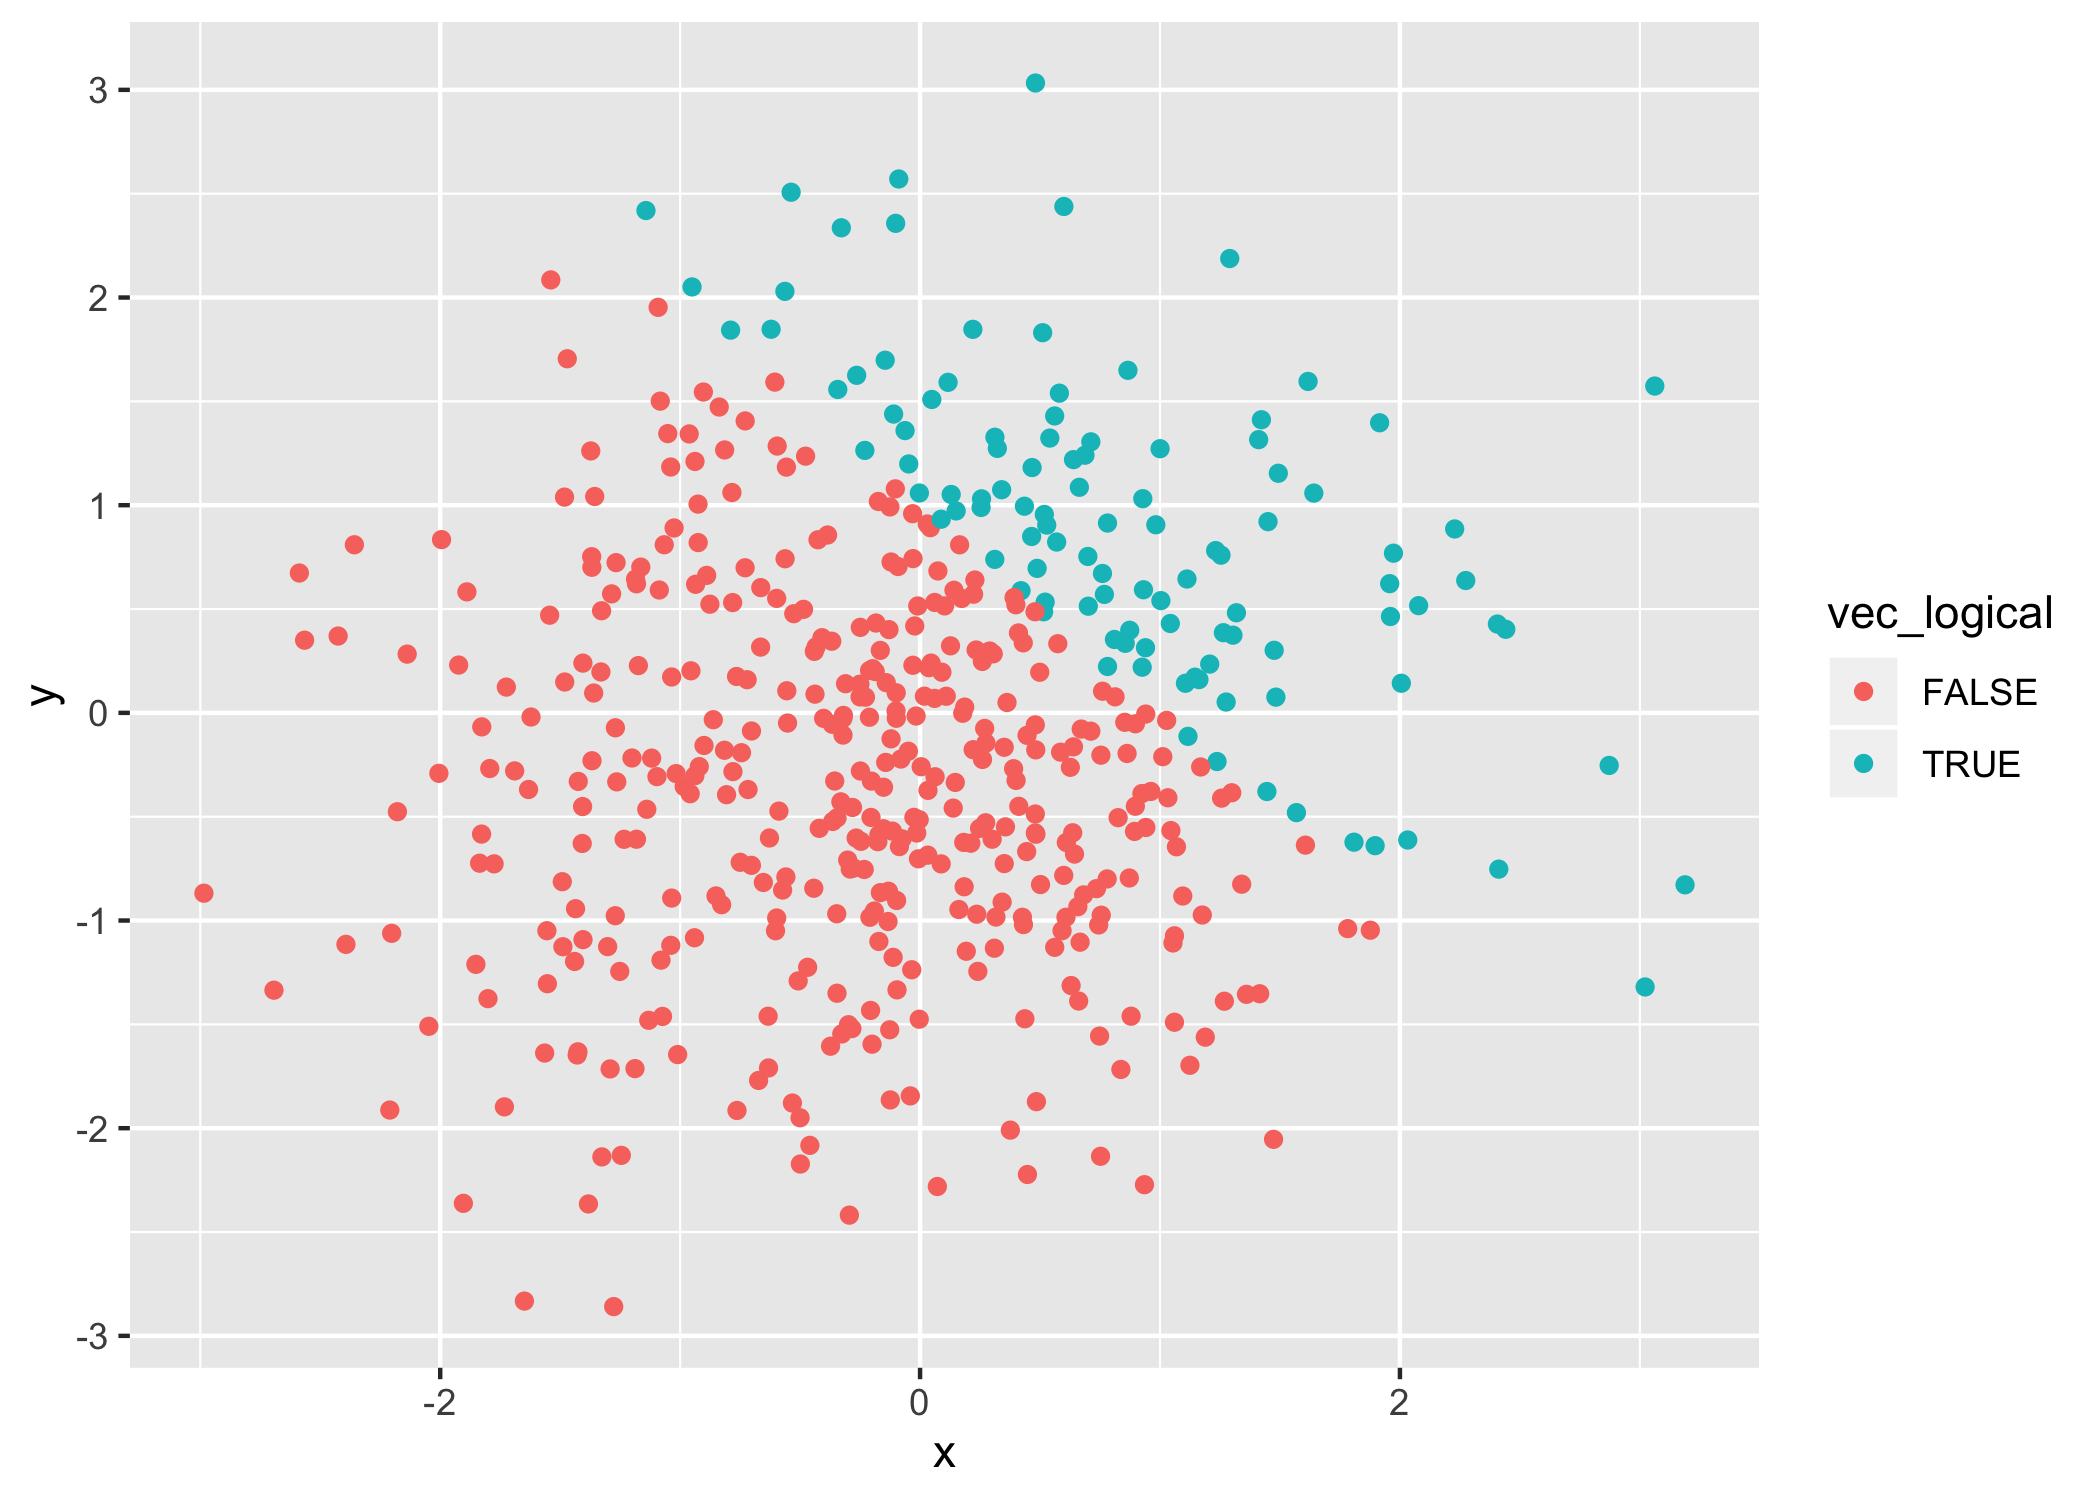
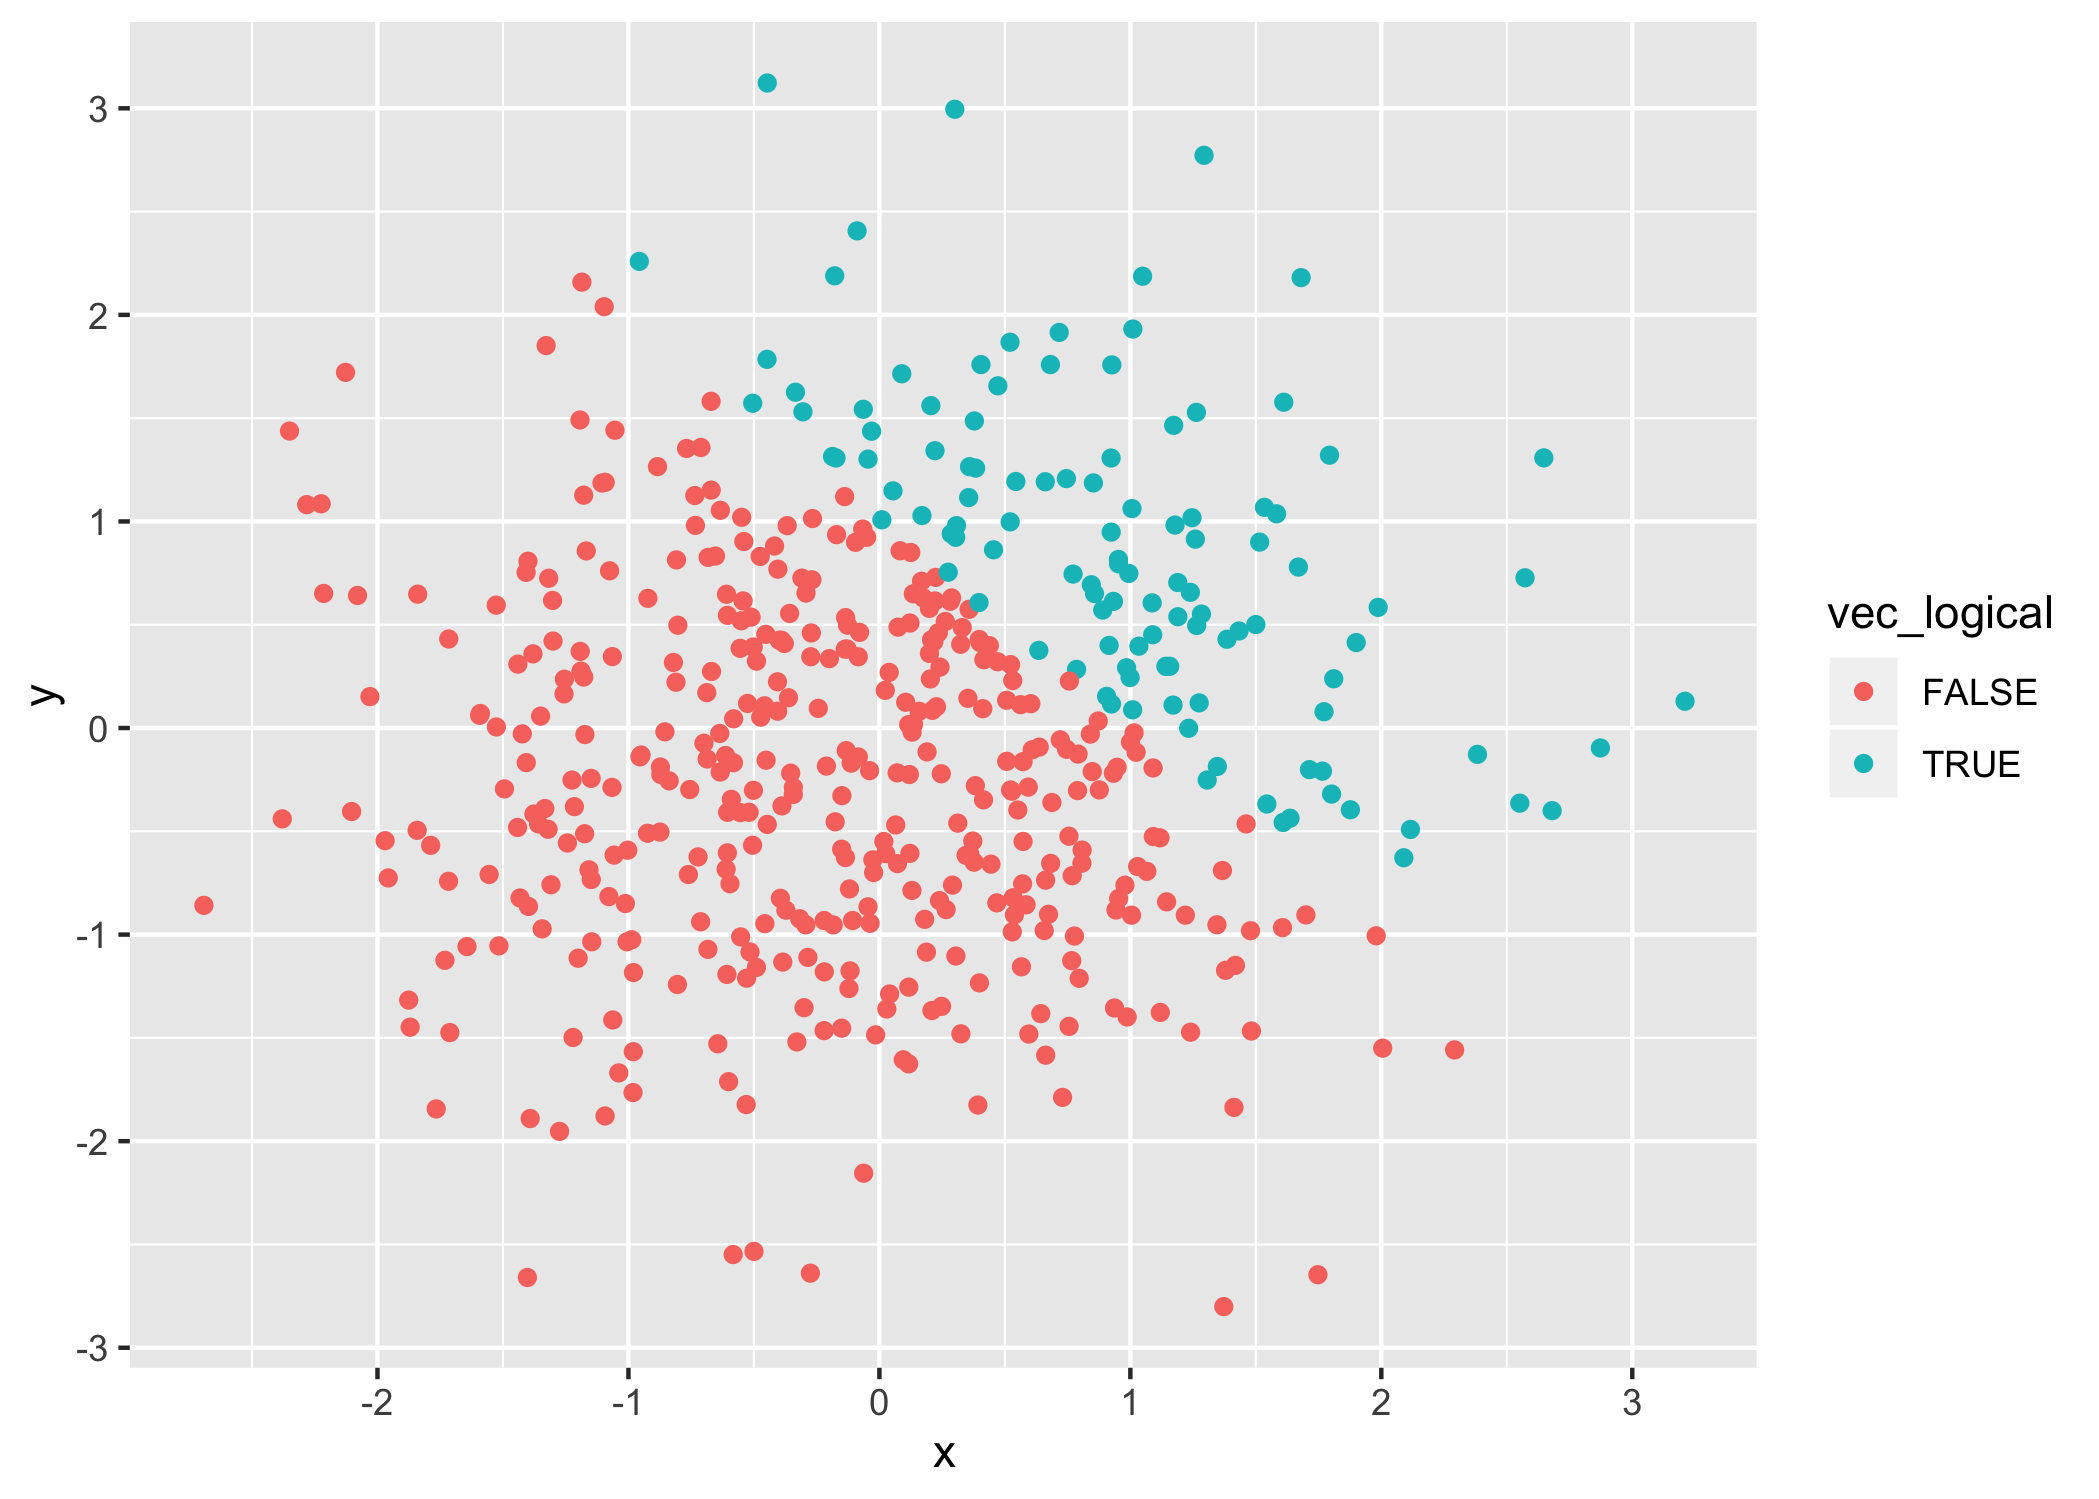
Add text description for problem 2.

diff --git a/p8105_hw1_xh2395.md b/p8105_hw1_xh2395.md
@@ -39,7 +39,7 @@ problem1_df = tibble(
 mean(pull(problem1_df, vec_numeric))
 ```
 
-    ## [1] 0.2372016
+    ## [1] 0.1755581
 
 ``` r
 mean(pull(problem1_df, vec_logical))
@@ -74,7 +74,7 @@ vec\_char and vec\_factor doesn’t work.
 as.numeric(pull(problem1_df, vec_logical))
 ```
 
-    ## [1] 0 1 1 0 1 0 1 1
+    ## [1] 0 0 1 1 1 1 0 1
 
 ``` r
 as.numeric(pull(problem1_df, vec_char))
@@ -101,8 +101,8 @@ multiply:**
 as.numeric(pull(problem1_df, vec_logical))*pull(problem1_df, vec_numeric)
 ```
 
-    ## [1] 0.00000000 0.69574679 0.95940113 0.00000000 0.44098534 0.00000000
-    ## [7] 0.05438621 0.64839411
+    ## [1] 0.0000000 0.0000000 1.2415849 0.5166485 1.1708866 0.0345899 0.0000000
+    ## [8] 0.9446244
 
 ``` r
 as.factor(pull(problem1_df, vec_logical))*pull(problem1_df, vec_numeric)
@@ -117,10 +117,12 @@ as.factor(pull(problem1_df, vec_logical))*pull(problem1_df, vec_numeric)
 as.numeric(as.factor(pull(problem1_df, vec_logical)))*pull(problem1_df, vec_numeric)
 ```
 
-    ## [1] -0.49640928  1.39149357  1.91880227 -0.32491947  0.88197067 -0.07997219
-    ## [7]  0.10877243  1.29678823
+    ## [1] -0.35908965 -1.78868250  2.48316986  1.03329695  2.34177318  0.06917981
+    ## [7] -0.35609726  1.88924889
 
 ## problem 2
+
+**Create a data frame as required:**
 
 ``` r
 problem2_df = tibble(
@@ -132,22 +134,26 @@ problem2_df = tibble(
 )
 ```
 
-The size of the dataset is 500 and 5,
+The size of the dataset is 500 and 5.
 
-The mean of x is -0.0654739,
+The mean of x is 0.0162651.
 
-The median of x is-0.0775422,
+The median of x is0.0272318.
 
-The standard deviation of x is 1.0097992,
+The standard deviation of x is 1.0039827.
 
-The proportion of cases for which x + y \> 1 is
-0.218.
+The proportion of cases for which x + y \> 1 is 0.226.
+
+**Make a scatterplot of y vs x (color points using the logical
+variable):**
 
 ``` r
 ggplot(problem2_df, aes(x = x, y = y, color = vec_logical)) + geom_point()
 ```
 
-![](p8105_hw1_xh2395_files/figure-gfm/unnamed-chunk-2-1.png)<!-- -->
+![](p8105_hw1_xh2395_files/figure-gfm/plot1-1.png)<!-- -->
+
+**Export the first scatterplot to the project directory:**
 
 ``` r
 ggsave("firstplot.png")
@@ -155,14 +161,20 @@ ggsave("firstplot.png")
 
     ## Saving 7 x 5 in image
 
+**Make a second scatterplot of y vs x (color points using the numeric
+variable):**
+
 ``` r
 ggplot(problem2_df, aes(x = x, y = y, color = vec_numeric)) + geom_point()
 ```
 
-![](p8105_hw1_xh2395_files/figure-gfm/unnamed-chunk-2-2.png)<!-- -->
+![](p8105_hw1_xh2395_files/figure-gfm/plot2-1.png)<!-- -->
+
+**Make a third scatterplot of y vs x (color points using the factor
+variable):**
 
 ``` r
 ggplot(problem2_df, aes(x = x, y = y, color = vec_factor)) + geom_point()
 ```
 
-![](p8105_hw1_xh2395_files/figure-gfm/unnamed-chunk-2-3.png)<!-- -->
+![](p8105_hw1_xh2395_files/figure-gfm/plot3-1.png)<!-- -->
